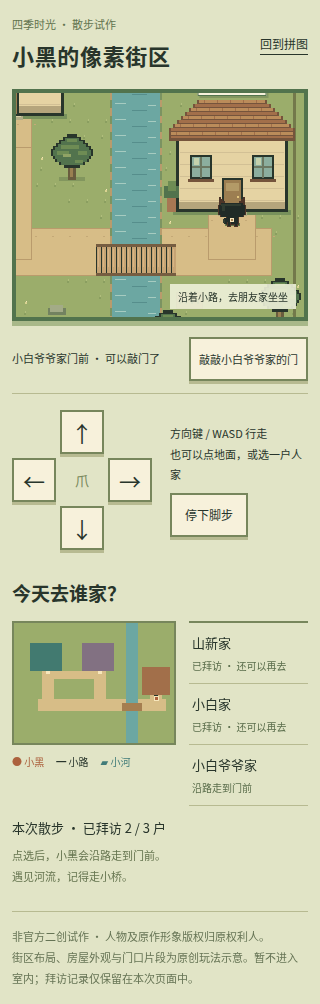
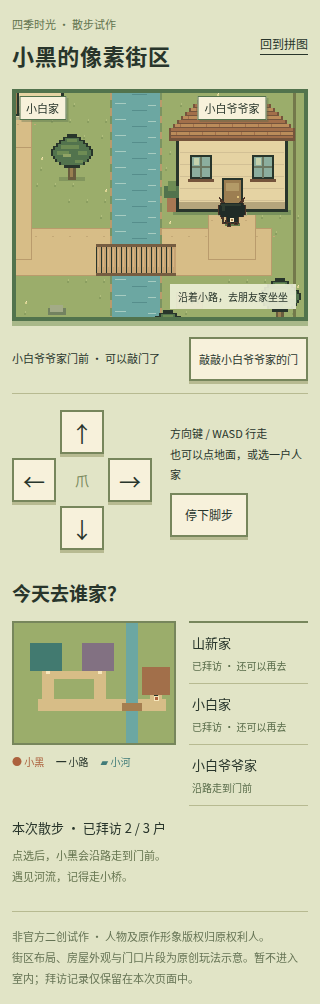
fix: 按审美反馈强化步态、耳尾和手机门牌可读性

Changed region(s): [[0.5938, 0.0926, 0.8438, 0.1235], [0.0625, 0.0926, 0.2188, 0.1235], [0.6875, 0.2161, 0.7188, 0.247]]

diff --git a/web/public/world/world.js b/web/public/world/world.js
@@ -1,4 +1,7 @@
 (() => {
+  if(location.protocol==='file:'){
+    const back=document.querySelector('header a');back.href='../../../prototype/puzzle.html';back.textContent='回到离线拼图';
+  }
   const M=PixelWorld,A=PixelArt,canvas=document.querySelector('#world'),ctx=canvas.getContext('2d'),frame=document.querySelector('#map-frame');
   const dialog=document.querySelector('#conversation'),visit=document.querySelector('#visit'),location=document.querySelector('#location'),destinations=document.querySelector('#destinations');
   const player={...M.spawn,dir:'down',distance:0},visited=new Set(),keys=new Set(),pointers=new Map();
@@ -39,7 +42,15 @@
     if(route.length){const p=route[route.length-1];ctx.fillStyle='#f7e6bb';ctx.fillRect(p.x-2,p.y-2,4,4);ctx.fillStyle='#a57e50';ctx.fillRect(p.x-1,p.y-1,2,2)}
     ctx.restore();
     const offset=(frame.clientWidth-canvas.width*scale)/2;
-    for(const h of M.homes){const label=labels.get(h.id);label.style.left=offset+((h.x+h.w/2)*M.TILE-camera.x)*scale+'px';label.style.top=(h.y*M.TILE-camera.y-4)*scale+'px'}
+    for(const h of M.homes){
+      const label=labels.get(h.id),left=h.x*M.TILE-camera.x,top=h.y*M.TILE-camera.y;
+      label.hidden=left+h.w*M.TILE<0||left>canvas.width||top+h.h*M.TILE<0||top>canvas.height;
+      if(!label.hidden){
+        const half=label.offsetWidth/2+3;
+        label.style.left=Math.max(half,Math.min(frame.clientWidth-half,offset+(left+h.w*M.TILE/2)*scale))+'px';
+        label.style.top=Math.max(label.offsetHeight+3,Math.min(canvas.height*scale-3,(top-4)*scale))+'px';
+      }
+    }
     A.mini(mini,player,visited);
     Object.assign(canvas.dataset,{x:player.x.toFixed(2),y:player.y.toFixed(2),direction:player.dir,moving:String(moving),step:String(step),cameraX:String(camera.x),cameraY:String(camera.y),scale:String(scale)});
   }
@@ -74,6 +85,9 @@
     button.addEventListener('pointerdown',e=>{if(e.button!==0||dialog.open)return;e.preventDefault();route=[];button.setPointerCapture(e.pointerId);pointers.set(e.pointerId,button.dataset.dir);keys.add(button.dataset.dir);button.classList.add('held')});
     const release=e=>{const dir=pointers.get(e.pointerId);pointers.delete(e.pointerId);if(dir&&![...pointers.values()].includes(dir))keys.delete(dir);button.classList.remove('held')};
     button.addEventListener('pointerup',release);button.addEventListener('pointercancel',release);button.addEventListener('lostpointercapture',release);
+    button.addEventListener('keydown',e=>{if((e.key===' '||e.key==='Enter')&&!dialog.open){e.preventDefault();route=[];keys.add(button.dataset.dir);button.classList.add('held')}});
+    button.addEventListener('keyup',e=>{if(e.key===' '||e.key==='Enter'){e.preventDefault();keys.delete(button.dataset.dir);button.classList.remove('held')}});
+    button.addEventListener('blur',()=>{keys.delete(button.dataset.dir);button.classList.remove('held')});
   }
   canvas.addEventListener('pointerdown',e=>{
     if(dialog.open||e.button!==0)return;e.preventDefault();const box=canvas.getBoundingClientRect(),x=Math.floor(((e.clientX-box.left)/scale+camera.x)/M.TILE),y=Math.floor(((e.clientY-box.top)/scale+camera.y)/M.TILE);
@@ -89,7 +103,7 @@
     dialog.showModal();document.querySelector('#close-scene').focus();dirty=true;
   }
   visit.addEventListener('click',visitHome);document.querySelector('#close-scene').addEventListener('click',()=>dialog.close());
-  dialog.addEventListener('close',()=>{stop();canvas.focus({preventScroll:true})});document.querySelector('#stop').addEventListener('click',()=>{stop();location.textContent='停下来，看看街边的风景。'});
+  dialog.addEventListener('close',()=>{stop();canvas.focus({preventScroll:true})});document.querySelector('#stop').addEventListener('click',()=>{stop();location.textContent='停下来，看看街边的风景。';canvas.focus({preventScroll:true})});
   window.addEventListener('blur',stop);document.addEventListener('visibilitychange',()=>{stop();lastTime=0});reduced.addEventListener('change',()=>{dirty=true});
   requestAnimationFrame(tick);
 })();

diff --git a/web/public/world/world-art.js b/web/public/world/world-art.js
@@ -75,24 +75,27 @@
     if(dir==='left'){c.translate(32,0);c.scale(-1,1);dir='right'}
     const r=(x,y,w,h,color)=>rect(c,x,y,w,h,color);
     const phase=[0,1,0,-1][frame%4];
+    const leftLift=phase>0?2:0,rightLift=phase<0?2:0;
     // Feet retain a fixed ground anchor. Leg phase changes, not overall volume.
     r(9,27,15,3,'#627b4b');
-    r(10,20,13,9,P.line);r(11,21,11,7,P.cat);
-    if(dir==='up'){r(8,22,4,6,P.cat);r(7,23,2,4,P.catLight)}
-    else {r(7,23,4,5,P.line);r(6,22,3,4,P.cat);r(6,21,2,2,P.catLight)}
-    r(11,27+phase,4,4-phase,P.line);r(18,27-phase,4,4+phase,P.line);
-    r(12,27+phase,2,3-phase,P.cat);r(19,27-phase,2,3+phase,P.cat);
+    r(10,20,13,8,P.line);r(11,21,11,6,P.cat);
+    // Open hook silhouette keeps the little curled tail readable over any tile.
+    r(6,22,2,5,P.line);r(6,26,5,2,P.line);r(5,21,3,2,P.line);r(9,24,2,3,P.line);
+    r(6,23,1,3,P.catLight);r(8,26,2,1,P.cat);
+    const leftX=dir==='right'?11-phase*2:11,rightX=dir==='right'?18+phase*2:18;
+    r(leftX,26,4,5-leftLift,P.line);r(rightX,26,4,5-rightLift,P.line);
+    r(leftX+1,27,2,3-leftLift,P.cat);r(rightX+1,27,2,3-rightLift,P.cat);
     if(dir==='right') {
       r(7,6,18,15,P.line);r(5,8,22,11,P.line);r(6,8,20,11,P.cat);r(8,6,16,15,P.cat);
       r(8,1,2,8,P.line);r(10,3,2,6,P.line);r(10,5,2,3,P.ear);r(22,2,2,6,P.line);r(21,4,2,3,P.ear);
       r(18,9,8,10,P.line);r(18,10,8,8,P.cream);r(20,10,6,7,'#101c19');r(26,18,2,2,'#6ba6a0');
-      r(14,27+phase,3,4-phase,P.line);
     } else {
-      r(3,1,2,8,P.line);r(5,3,2,7,P.line);r(7,5,2,4,P.line);
-      r(27,1,2,8,P.line);r(25,3,2,7,P.line);r(23,5,2,4,P.line);
+      for(const [ex,ey,ew] of [[3,1,1],[3,2,2],[4,3,2],[4,4,3],[4,5,4],[5,6,4],[5,7,4]]) {
+        r(ex,ey,ew,1,P.line);r(32-ex-ew,ey,ew,1,P.line);
+      }
       r(4,7,24,14,P.line);r(2,9,28,10,P.line);r(3,9,26,10,P.cat);r(5,7,22,14,P.cat);
       if(dir==='down') {
-        r(5,5,2,4,P.ear);r(25,5,2,4,P.ear);
+        r(5,5,1,2,P.ear);r(6,6,2,2,P.ear);r(26,5,1,2,P.ear);r(24,6,2,2,P.ear);
         for(const ex of [5,18]) {
           r(ex+2,9,6,11,P.line);r(ex+1,10,8,9,P.line);r(ex,12,10,5,P.line);
           r(ex+2,10,6,9,P.cream);r(ex+1,12,8,5,P.cream);r(ex+4,10,3,9,'#101c19');r(ex+3,11,5,7,'#101c19');r(ex+2,13,6,3,'#101c19');

diff --git a/docs/pixel-world/ART_REVIEW_INITIAL.md b/docs/pixel-world/ART_REVIEW_INITIAL.md
@@ -1,0 +1,76 @@
+# 像素街区首块玩法小样独立美术审核
+
+**结论：PASS，限定于首块小样的静态像素方向、基本角色辨识度及已给画面中的角色/环境一致性。** 大黑瞳、浅色眼环、绿色内耳、蓝绿小嘴和黑绿身体保留了猫形小黑的主要线索；角色与低饱和草地、米黄墙面、屋顶及树木处于同一块面与描边语言中。当前没有足以否决这块静态试样的主要辨识度问题。
+
+**完整连续行走审核为 INCOMPLETE。** 四向图册有提供，但步态变化很弱；没有独立连续播放证据，不能确认循环节奏、脚滑、转向瞬间及相机移动中的像素稳定。下述 P2 建议保留，不把静态方向通过扩大成完整游戏美术、原作精确还原或用户最终认可。
+
+## 范围与版本
+
+- 固定审核提交：`b8fa335793f96e066c5872b9a16d17cf1476738b`；本轮开始实际读取 HEAD 与之相同。审阅期间获知后续 `72376aa` 只调整拼图页入口与相关 CSS，本报告仍针对固定候选的像素素材与场景，不扩大到后续入口改动。
+- 独立审阅，按 `character-art-review` skill 工作；未制作本候选，未修改产品代码。
+- 主参考：`web/public/art/characters/xiaohei/reference-1.png` 右下的猫形正面坐姿，已实际查看。参考姿态与候选行走不同，不将坐姿前肢形状当成唯一走路设定；没有原作四向设定，不编造唯一侧背比例。
+- 房屋、街道、桥和布局为原创玩法示意，审核其视觉协调与可读性，不评价是否复原官方场景；不以“像星露谷”为由要求复制其具体素材。
+- 本轮不评已有3D模型，也不以像素候选结论替代3D模型审核。“3D保持不变”属于修改范围检查，应由代码审查单独确认。
+
+### 实际查看的仓库证据
+
+| 证据 | 路径与尺寸 | 使用范围 |
+|---|---|---|
+| 主参考 | `web/public/art/characters/xiaohei/reference-1.png`，444×546 | 猫形正面辨识线索 |
+| 原始图册 | `docs/screenshots/pixel-world/xiaohei-atlas.png`，128×128 | 4行朝向、每行4列；观察原始像素网格 |
+| 整数放大图册 | `docs/screenshots/pixel-world/xiaohei-atlas-4x.png`，512×512，最近邻4倍 | 检查台阶、色块、描边、帧间形状；不是平滑插值放大 |
+| 桌面整页 | `docs/screenshots/pixel-world/desktop-{street,walking,shanxin,xiaobai,grandpa,bridge}.png`，1360×977 | 角色进入地图后的尺度、三屋、道路、桥与场景色板 |
+| 桌面对话 | `docs/screenshots/pixel-world/desktop-{shanxin,xiaobai,grandpa}-dialog.png`，1360×977 | 对话框与场景的画风关系、文字可读性 |
+| 手机整页与对话 | 同目录 `mobile-{street,walking,shanxin,xiaobai,grandpa,bridge}.png` 及3张 `mobile-*-dialog.png`，390×1004 | 默认显示大小下角色与地图可辨程度、对话文字 |
+| 较窄屏抽查 | `small-street.png`、`small-grandpa-dialog.png`，320×1004 | 更小尺寸静态抽查，不声称已遍历所有320px状态 |
+
+上述素材均实际通过 `view_image` 查看。另将原图册第一格做了最近邻整数放大，仅供审阅者放大看清像素，不作为产品新素材或新版本证据。没有把代码中的尺寸、颜色参数或功能测试日志替代视觉判断。
+
+## 分项判断
+
+| 项目 | 可观察事实 | 审美判断与证据边界 |
+|---|---|---|
+| 正面辨识度 | 两只大黑瞳被浅米色眼环包围，脸部大面积为眼睛，黑绿短身体，耳内绿色，小嘴蓝绿；桌面与390px默认画面仍看得到眼耳结构 | 主要线索成立，读起来是小黑的像素改编。像素取舍不必复制原作每一根轮廓线；没有显著“只剩通用黑猫”的问题 |
+| 头身与姿态 | 头大、躯干短，腿/脚位于下部，方向变化保留大头短身关系；正面与背面头宽接近，侧面按方向变窄 | 首块俯视街区小样可以接受。参考是坐姿，候选是行走站姿，不能直接用其全身高度比例判错 |
+| 像素轮廓 | 图册边缘为清楚的方形色块，眼形有可辨的阶梯转折，没有新增半透明抗锯齿毛边；黑/棕描边与较亮地面形成分离 | 像素表达成立。耳尖偏方柱是风格取舍中的可改善项，见下表 |
+| 色板与环境 | 角色黑绿、棕框、米色眼环呼应树木深边、土路及墙面；环境使用低饱和绿、青、米黄和暖棕，屋顶靠青/紫灰/暖棕分区 | 角色没有突兀的写实高光或矢量渐变，基本风格一致；角色比环境更深是可读性需求，不是色板不统一 |
+| 四向体积 | 图册各朝向耳、头、身体占幅稳定，同一行四列头部保持稳定，没有明显一帧突然鼓胀或缩头 | 可以确认这些静帧的基本体积稳定；不能由静帧确认转向过渡时没有跳变 |
+| 脚底锚点 | 各行四列脚底落在相同基线，未见单帧整体垂直错位；变化集中在腿部，很小 | 静态脚底基线稳定；锚点一致不等于走路自然，脚滑仍待连续播放判断 |
+| 手机可读性 | 390px及320px抽查中，角色仍能从草地和路面上分离，正面能看两眼，侧面能看单眼，门与道路清楚；对话文字可读 | 角色基本可读。耳内绿、嘴和尾巴属于很小的次级细节，手机不能期待与图册放大时等量的信息 |
+| 三屋与场景组织 | 三座房子拥有一致墙窗和屋顶结构，靠屋顶颜色、门牌、所在岸边区分；桥与道路接续关系在画面中明确 | 适合验证街区方向，但目前主要是同一房屋模板变色，角色居所个性还弱。这不是官方场景还原失败 |
+| 对话框风格 | 米色底、深绿色文字、方形细边与场景低饱和色板协调，桌面与手机文字都能看清 | 不使用像素中文字体也不构成缺陷；清楚阅读优先。未由截图判断点击、关闭或焦点行为 |
+
+## P2改进项及不确定性
+
+本轮未列 P1；下面是继续完善小样的有限建议，不表示必须把所有装饰做完才能让用户试走。
+
+| 优先级 | 位置与证据 | 具体问题/判断 | 建议修改 | 复核证据 |
+|---|---|---|---|---|
+| **P2，优先** | `xiaohei-atlas.png` 与4倍图册，四行全部 | 四列步态变化很弱：头、躯干和脚底轮廓几乎相同。视觉观察后对原图像素补充比对，确认每行第1列=第3列、第2列=第4列，变化仅集中在腿部两行。因此目前是两个很接近的姿态重复，并非四个独立姿态。两姿态循环本身不是错误，但这里步子不容易读出来 | 不扩大图册尺寸，先做一行侧面试样，明确前后脚的交替与摆动/接触关系；保持躯干体积与底部锚点。不要靠全身上下跳动代替迈步，也不要求强行增加为4个独立姿态 | 原尺寸与4倍图册修前/修后，以及侧向连续走一段。判断是否仍像滑动，需要连续证据 |
+| **P2** | 图册正面、街道正面 | 耳尖最外段为直立方柱，绿色耳内也是较竖直的小块，猫耳斜边的读法弱于主参考 | 仅尝试在现有网格中修少量斜阶梯，让耳尖与耳根形成更明确的三角关系；不一口气把耳朵加大加长 | 正、侧、背同倍率一组，同时看390px地图内原大小，防止放大好看而默认尺寸丢形 |
+| **P2 / 待选** | 图册正面、侧面与 `mobile-walking.png` | 尾巴靠近身体，弯曲关系不强，默认尺寸容易读成旁边短肢；侧脸小嘴也只是极小色点 | 可以先尝试稍明确尾巴外轮廓的弯曲或与躯干间的负空间，保留小嘴为辅助线索即可；不增加毛发、复杂抖动与细碎单像素装饰 | 四向默认大小与最近邻放大并排；没有原作完整四向设定，不规定尾巴唯一长度和方向 |
+| **P2，场景个性** | `desktop-shanxin/xiaobai/grandpa.png` | 除屋顶配色和门牌外，三屋的墙窗布局相当接近 | 每屋最多先增加一个小而清楚的原创外部线索，如独特花盆组合、门边物或窗帘差异。明确属于原创示意，不把新设计写成原作设定 | 三屋同尺度对照、手机默认大小。不要用大量细小杂物提高密度 |
+| **P2，显示边界** | `mobile-street.png`、`mobile-shanxin.png`、`mobile-xiaobai.png`；320px抽查 | 上方房屋门牌会贴近甚至被地图画布上边缘截去一部分；右侧被视口裁切的房屋标签也会不完整。列表仍能给出目的地，但场景内门牌的完整可读性不稳定 | 可先让目的地/附近房屋标签避开画布边界，或仅在足够显示空间时画完整标签；房屋本体可以自然出画，不必强行把整张地图塞进手机 | 同位置桌面、390px和320px；不用由变大字号或改变相机掩盖角色本身的可读性 |
+
+像素补充比对针对的是已经查看的实际图册像素，用于确认帧的重复与差异位置，不是根据实现参数推测画面。脚底静态不动可能是有意锁定接触点；只有连续播放才能判断是否形成自然行走，不能仅以“两帧重复”判动画失败。
+
+## 下一轮最小范围
+
+1. 先保留当前地图与角色尺寸，只做**一行侧向步态**的可比较试样，让迈步清楚，同时保持体积和脚底锚点。
+2. 提供正面及侧面各一段短连续走动，包括起步、匀速、停止与一次转向；同时给原尺寸/4倍最近邻图册。没有连续播放证据时继续标为待确认。
+3. 门牌边界可以单独做局部显示修正。耳尖、尾巴、三屋个性作为之后的少量变体，不建议这一轮重画全部角色或扩建新地图。
+
+## 通过与未通过的边界
+
+| 范围 | 状态 |
+|---|---|
+| 首块静态像素方向、正面基本辨识度、角色与环境大体一致 | **PASS，限本轮已有图像** |
+| 四向静帧体积、图册脚底基线 | **有稳定的静态证据**；没有看见明显跳帧体积错位 |
+| 步态的清楚程度 | **P2建议，当前两姿态变化偏弱** |
+| 连续行走节奏、脚滑、转向、镜头移动中的像素抖动 | **INCOMPLETE** |
+| 触控、键盘、寻路、碰撞、敲门与存档行为 | **本轮不评**；功能通过不构成美术通过依据 |
+| 3D保持不变、素材提交范围 | **本轮不评**，应由修改范围审查确认 |
+| 原作侧背精确还原、房屋官方复原 | 前者**缺证据**；后者**不在任务目标内** |
+| 用户最终审美认可、合并或部署 | **本报告不代替用户决定** |
+
+这版已经适合作为“像素世界方向是否值得继续”的静态可试玩小样来评议；它还没有证明完整行走动画已经通过独立审阅。
